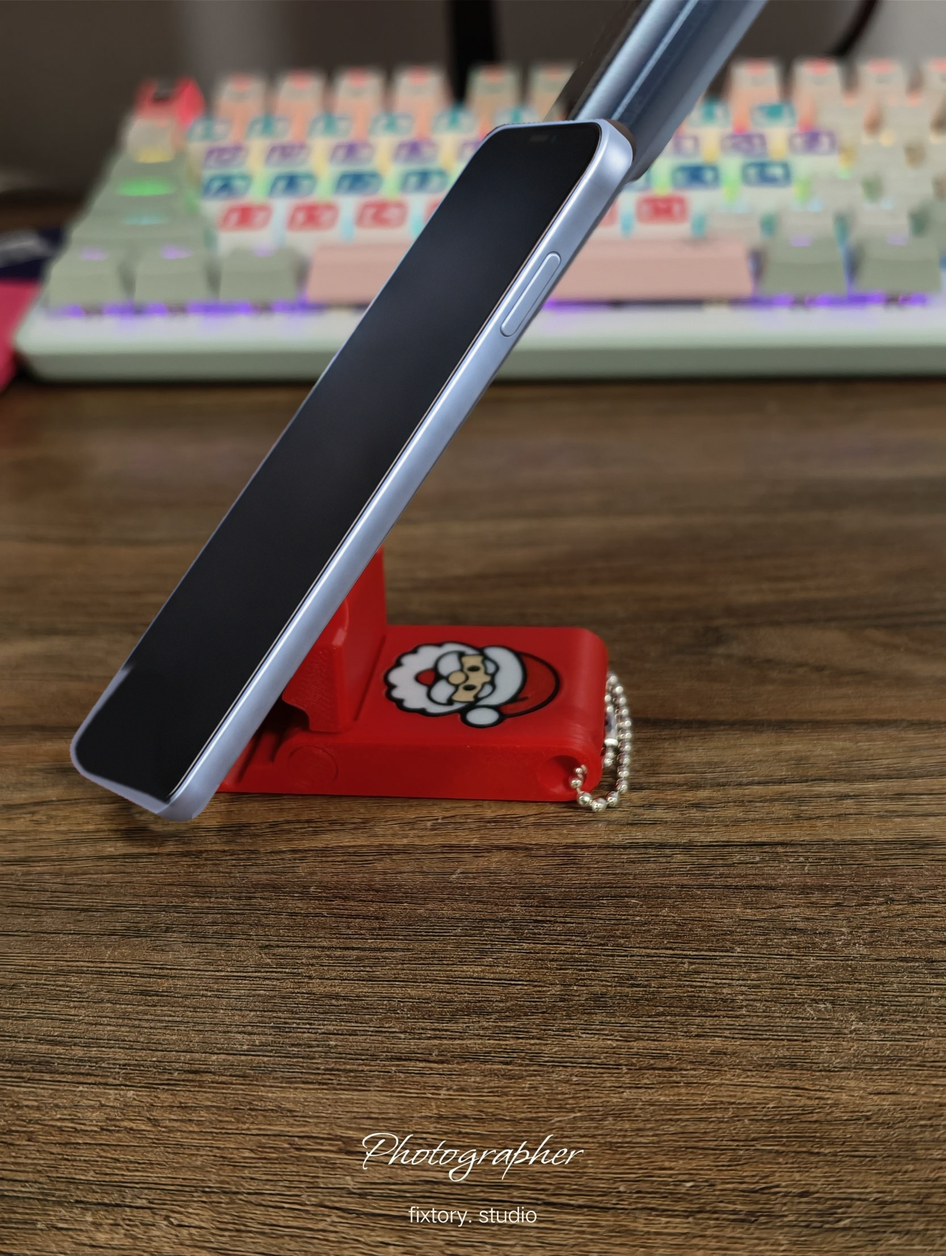
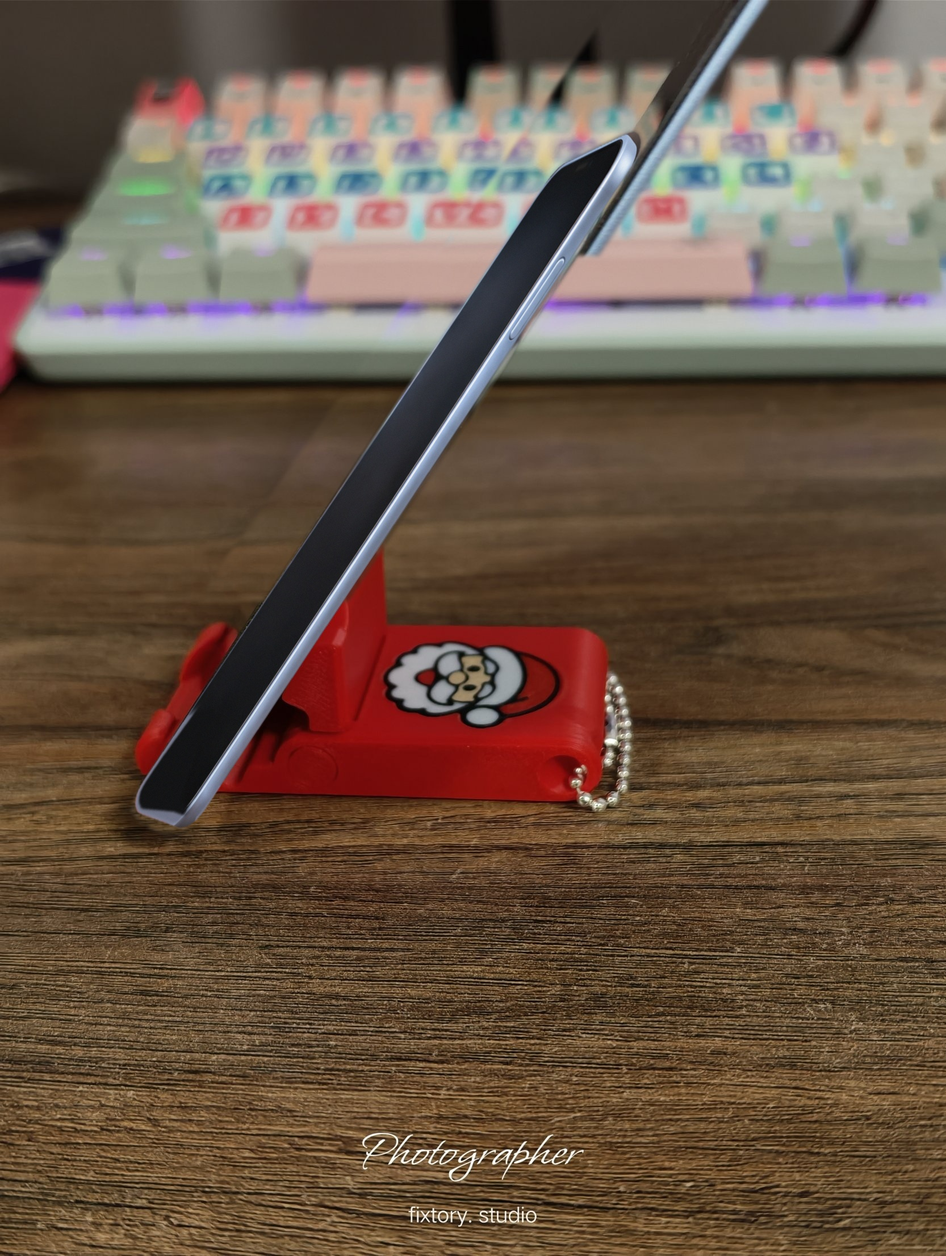
ref: new phone now sits inside the stand (narrower face, same footprint as the real phone)
Claude-Session: https://claude.ai/code/session_019RUqraWLLV2PRspZjKHWCw

Changed region(s): [[0.0624, 0.0, 0.8115, 0.6551]]

diff --git a/ref/phonestand-photos/swap_phone.py b/ref/phonestand-photos/swap_phone.py
@@ -60,6 +60,15 @@ a_ai, a_old = np.degrees(np.arctan(0.508)), np.degrees(np.arctan(0.663))
 A = cv2.getRotationMatrix2D(BR, -(a_old - a_ai), S)
 tgt = (335, 1466)
 A[:, 2] += np.array(tgt) - np.array(BR)
+# narrow the visible face (turn the phone towards a side view) so its bottom fits inside the stand:
+# squeeze across the phone axis, keeping the back edge (right frame line) where it is
+K = float(sys.argv[5]) if len(sys.argv) > 5 else 1.0
+u = np.array([np.sin(np.radians(a_old)), -np.cos(np.radians(a_old))])   # up the axis in the photo
+n = np.array([-u[1], u[0]])                                            # across the axis
+Q = np.eye(3); Q[:2, :2] = np.outer(u, u) + K * np.outer(n, n)
+tg = np.array(tgt, float)
+Q[:2, 2] = tg - Q[:2, :2] @ tg
+A = (Q @ np.vstack([A, [0, 0, 1]]))[:2]
 ph = cv2.warpAffine(phone, A, (SW, SH), flags=cv2.INTER_LANCZOS4)
 pm = cv2.warpAffine(m, A, (SW, SH), flags=cv2.INTER_LINEAR).astype(np.float32) / 255
 pm = cv2.GaussianBlur(pm, (0, 0), 0.8)
@@ -72,6 +81,13 @@ sh = np.zeros((SH, SW), np.float32)
 bl_w = A @ np.array([BL[0], BL[1], 1]); br_w = A @ np.array([BR[0], BR[1], 1])
 cv2.line(sh, tuple(int(v) for v in bl_w + (0, 8)), tuple(int(v) for v in br_w + (0, 8)), 1.0, 26)
 sh = cv2.GaussianBlur(sh, (0, 0), 14) * 0.45
+# remove what is left of the old phone around the new one (its screen glass, top-left): clone background from the left
+yy, xx = np.mgrid[0:SH, 0:SW]
+Lg = 633 - 0.70 * (yy - 740) - 65                     # outer edge of the old phone's glass
+Rold = 644 - 0.663 * (yy - 1000) + np.where(yy < 450, 45, 6)                   # old phone's back edge
+rem = (xx > Lg) & (xx < Rold) & (yy < 1060) & (pm < 0.5)
+remf = cv2.GaussianBlur(rem.astype(np.float32), (0, 0), 4)[..., None]
+src = (src * (1 - remf) + np.roll(src, 170, axis=1) * remf).astype(np.uint8)
 base = src.astype(np.float32) * (1 - sh[..., None])
 out = base * (1 - pm[..., None]) + ph * pm[..., None]
 
